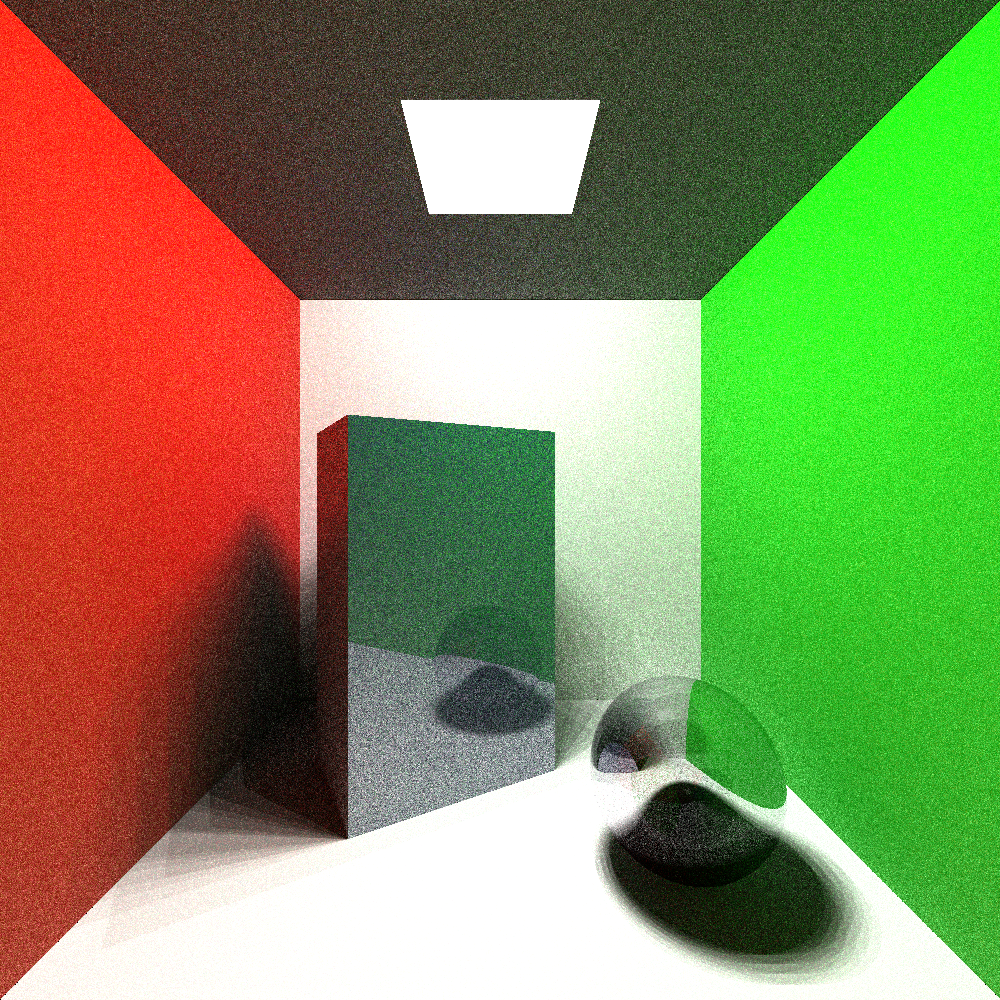
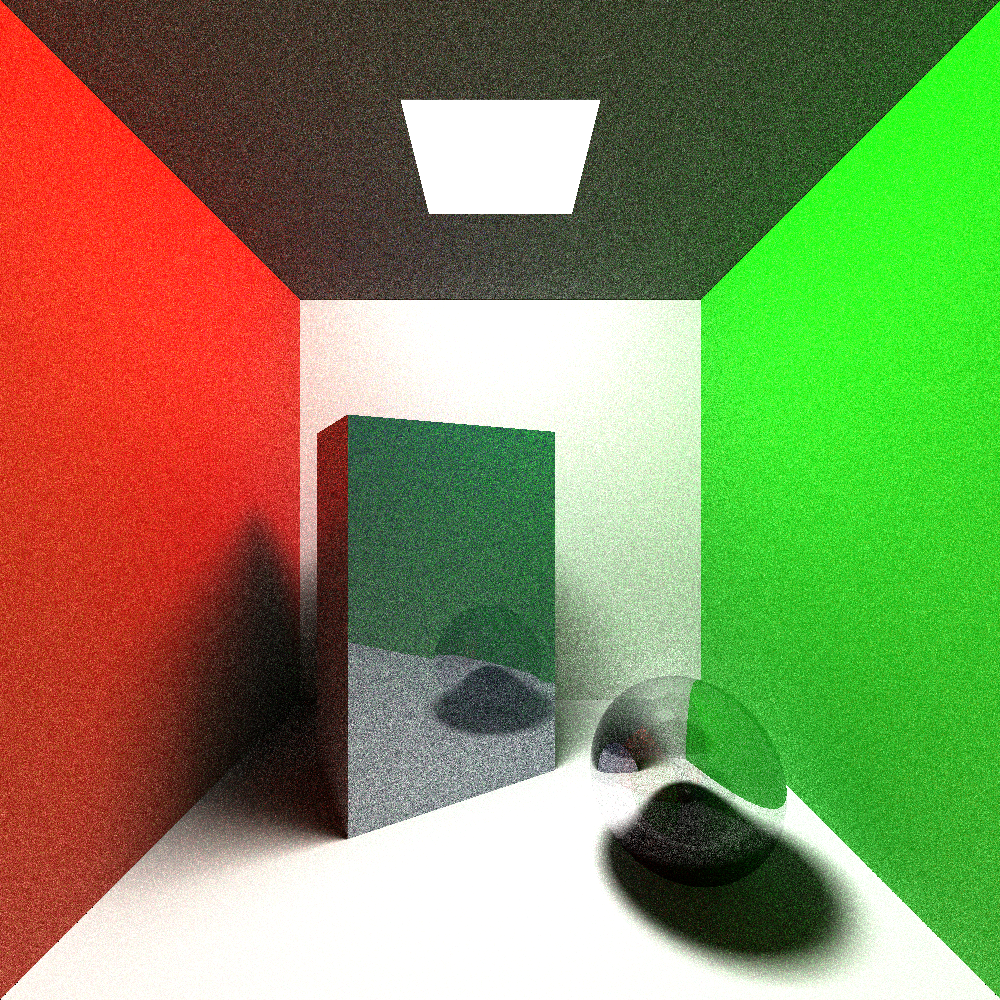
correct typo

diff --git a/Project/Improved-Ray-Tracer/src/AreaLight.h b/Project/Improved-Ray-Tracer/src/AreaLight.h
@@ -28,7 +28,7 @@ public:
     }
 
     if (block_side < 0) {
-      0;
+      block_side = 0;
     }
 
     x_size = block_side * x_parts;
